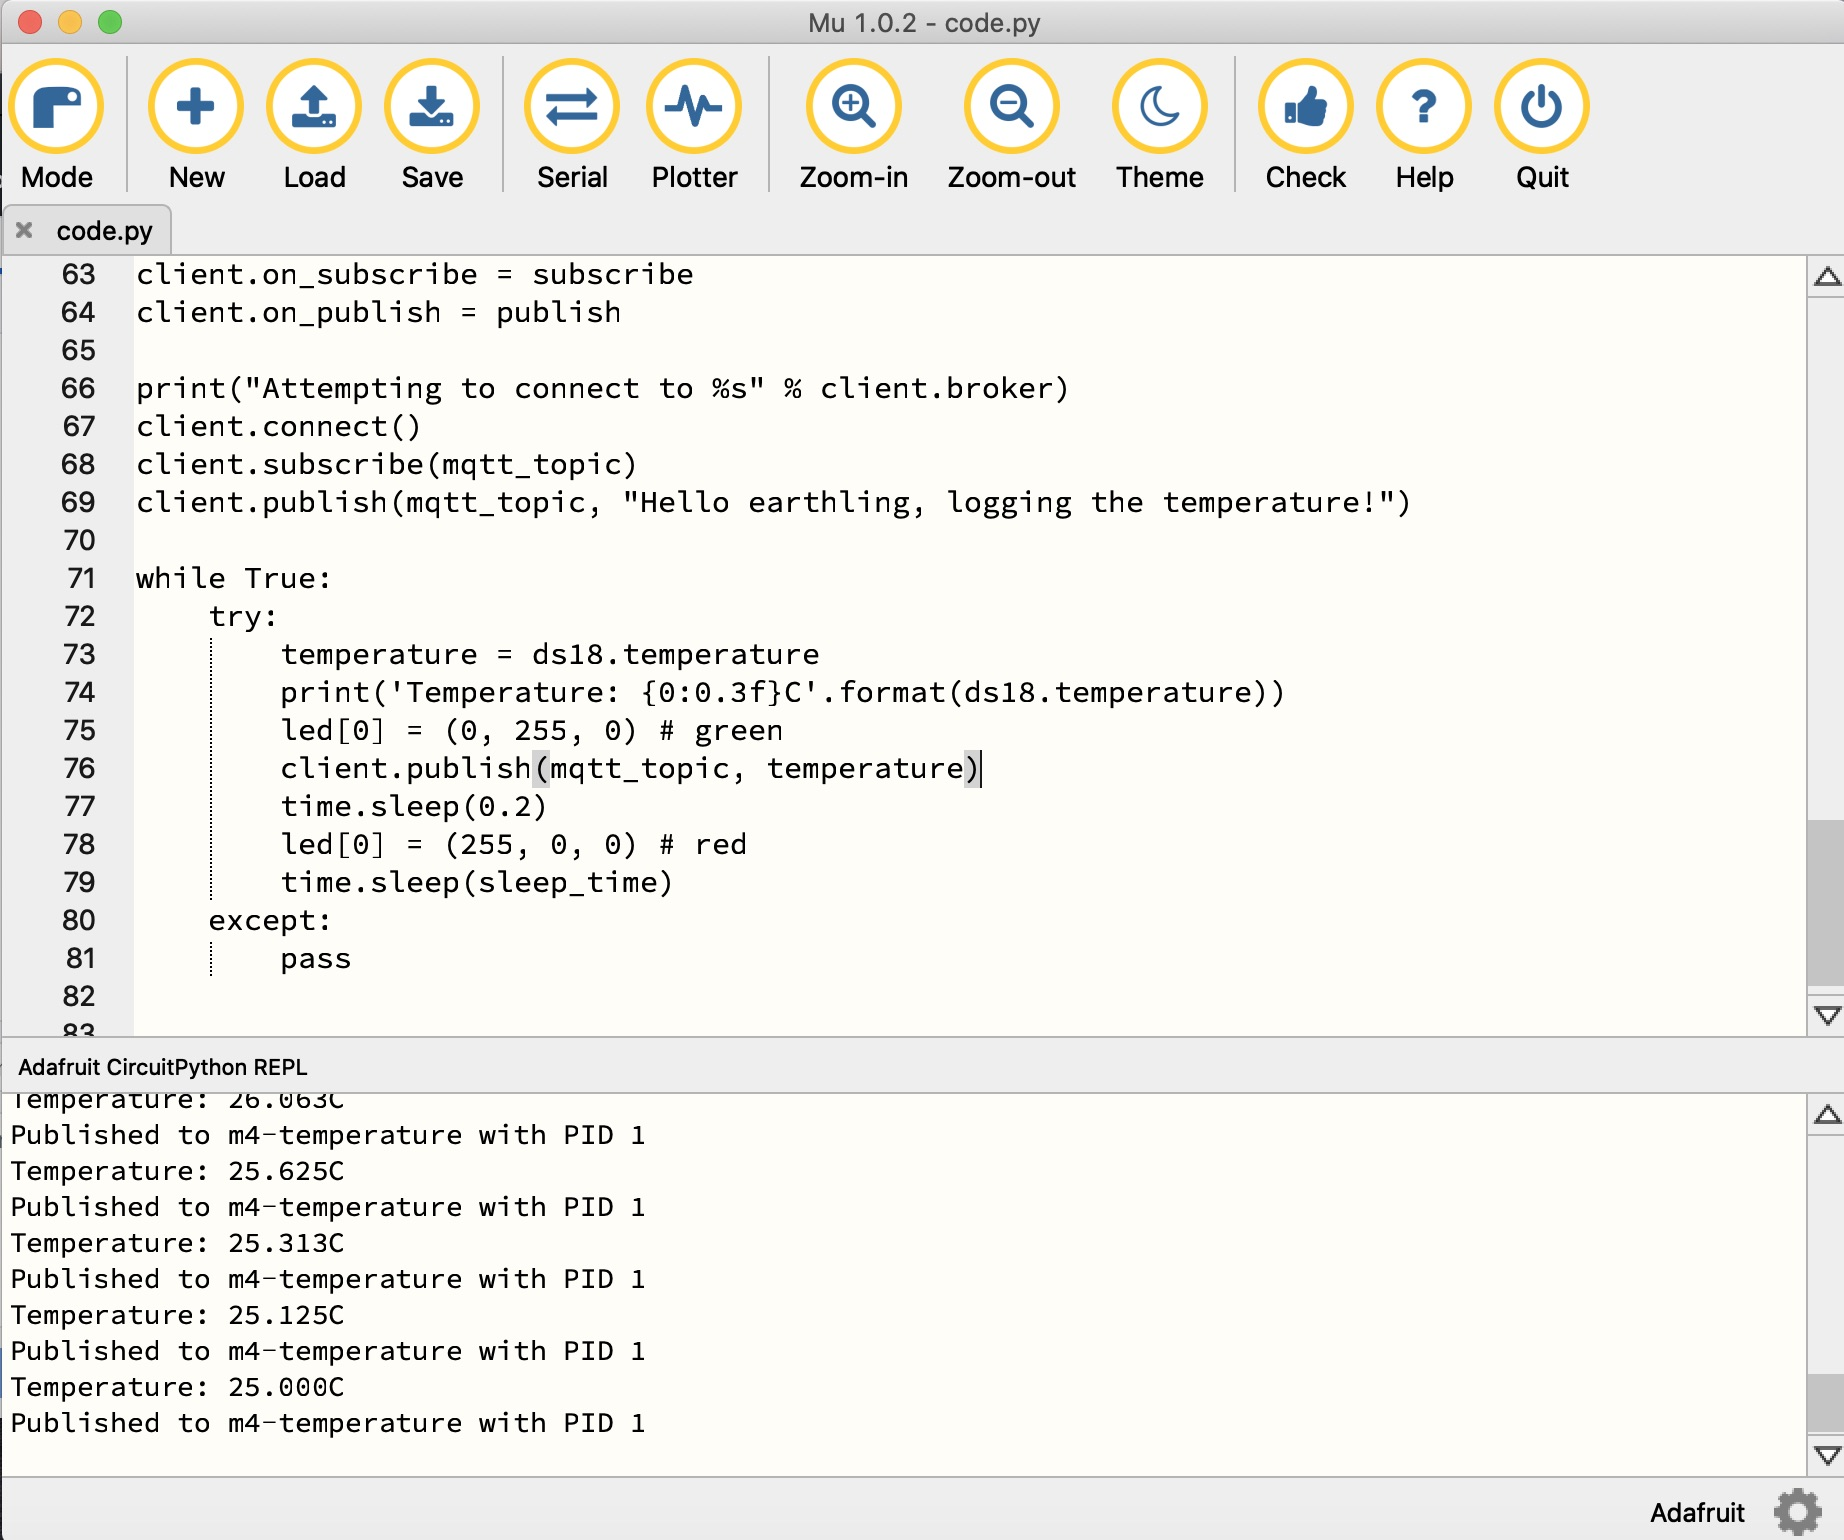
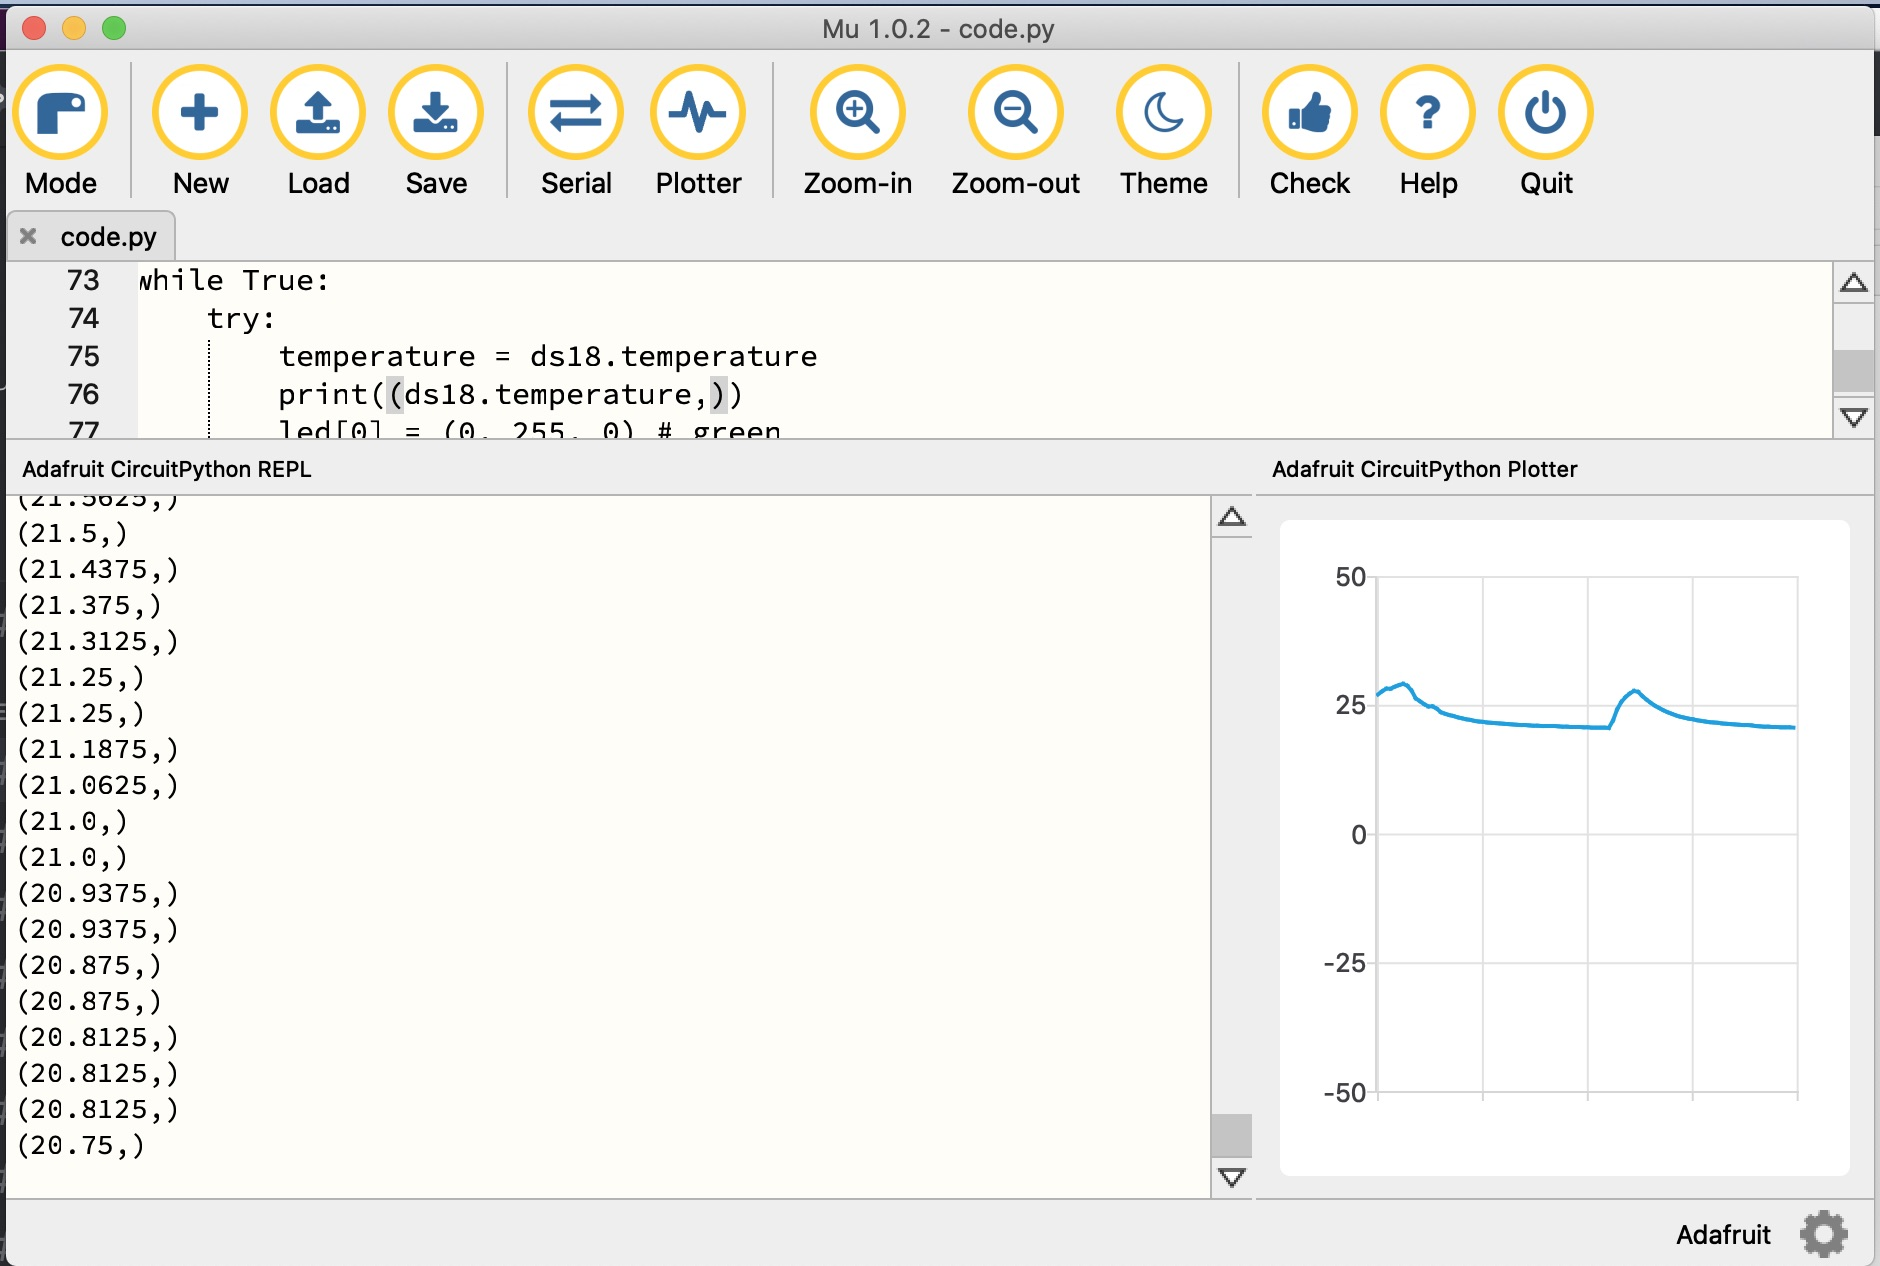
Update mu

diff --git a/1-wire temperature/code.py b/1-wire temperature/code.py
@@ -12,7 +12,7 @@ from adafruit_minimqtt import MQTT
 import adafruit_dotstar
 
 led = neopixel.NeoPixel(board.NEOPIXEL, 1)
-led.brightness = 0.2
+led.brightness = 0.1
 
 # Initialize one-wire bus on board pin D5.
 ow_bus = OneWireBus(board.D5)
@@ -31,7 +31,7 @@ wifi = adafruit_esp32spi_wifimanager.ESPSPI_WiFiManager(esp, secrets)
 
 ## Setup topic and measurement interval
 mqtt_topic = "m4-temperature"
-sleep_time = 5
+sleep_time = 0.1
 
 def connect(client, userdata, flags, rc):
     # This function will be called when the client is connected
@@ -45,7 +45,9 @@ def subscribe(client, userdata, topic, granted_qos):
 
 def publish(client, userdata, topic, pid):
     # This method is called when the client publishes data to a feed.
-    print("Published to {0} with PID {1}".format(topic, pid))
+#    print("Published to {0} with PID {1}".format(topic, pid))
+    return
+
 
 # Connect to WiFi
 wifi.connect()
@@ -71,11 +73,11 @@ client.publish(mqtt_topic, "Hello earthling, logging the temperature!")
 while True:
     try:
         temperature = ds18.temperature
-        print('Temperature: {0:0.3f}C'.format(ds18.temperature))
+        print((ds18.temperature,))
         led[0] = (0, 255, 0) # green
         client.publish(mqtt_topic, temperature)
         time.sleep(0.2)
         led[0] = (255, 0, 0) # red
         time.sleep(sleep_time)
-    except:
-        pass
+    except Exception as err:
+        print('An error occured: {}'.format(err))

diff --git a/1-wire temperature/README.md b/1-wire temperature/README.md
@@ -6,7 +6,7 @@
 * Wire to 5V, GND and D5 digital. 4.7 kohm pull-up resistor required between digital and 5V (I only had and used 10 kohm)
 * Requirements: use a `secrets.py`
 * MQTT broker - I am using [mosquitto](https://github.com/eclipse/mosquitto)
-* MQTT chart data - I am using [MQTT explorer](https://mqtt-explorer.com/) to visualise the readings
+* chart data - I am using [MQTT explorer](https://mqtt-explorer.com/) to visualise the MQTT readings. You can also chart data in Mu as shown below:
 
 * **Issue**: after about 500 readings the script hangs
 
